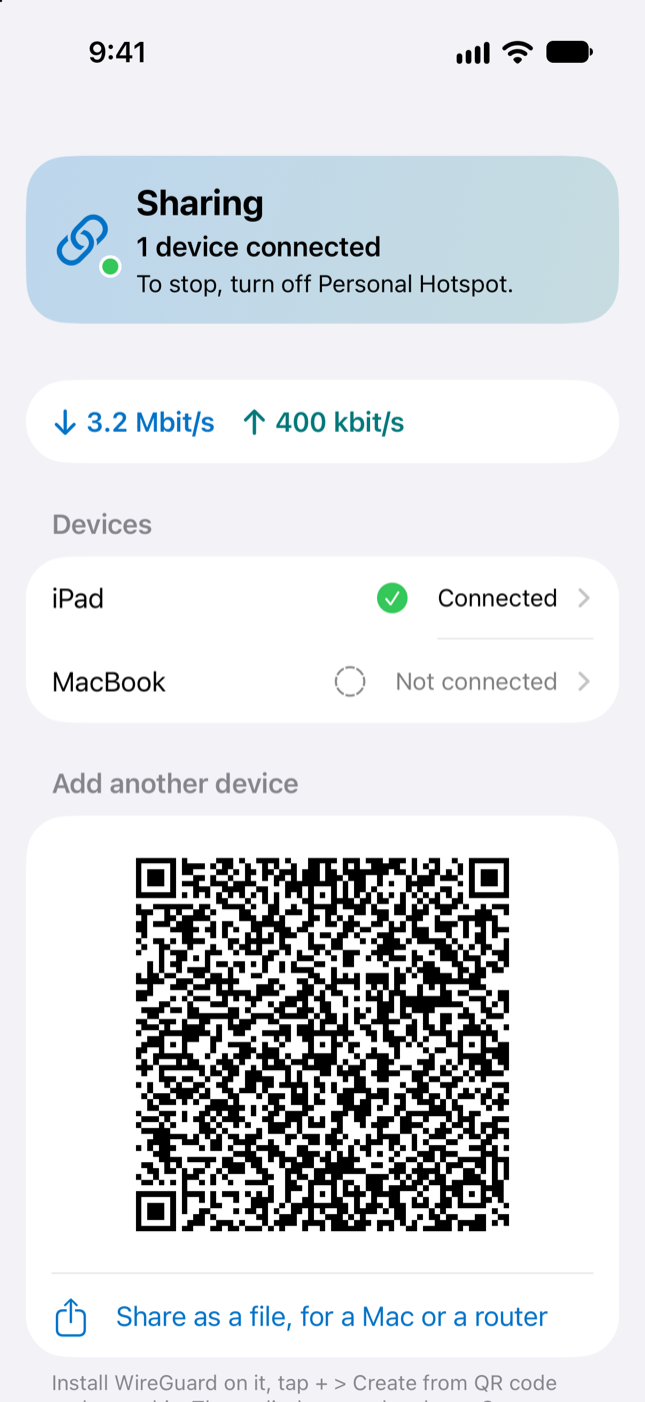
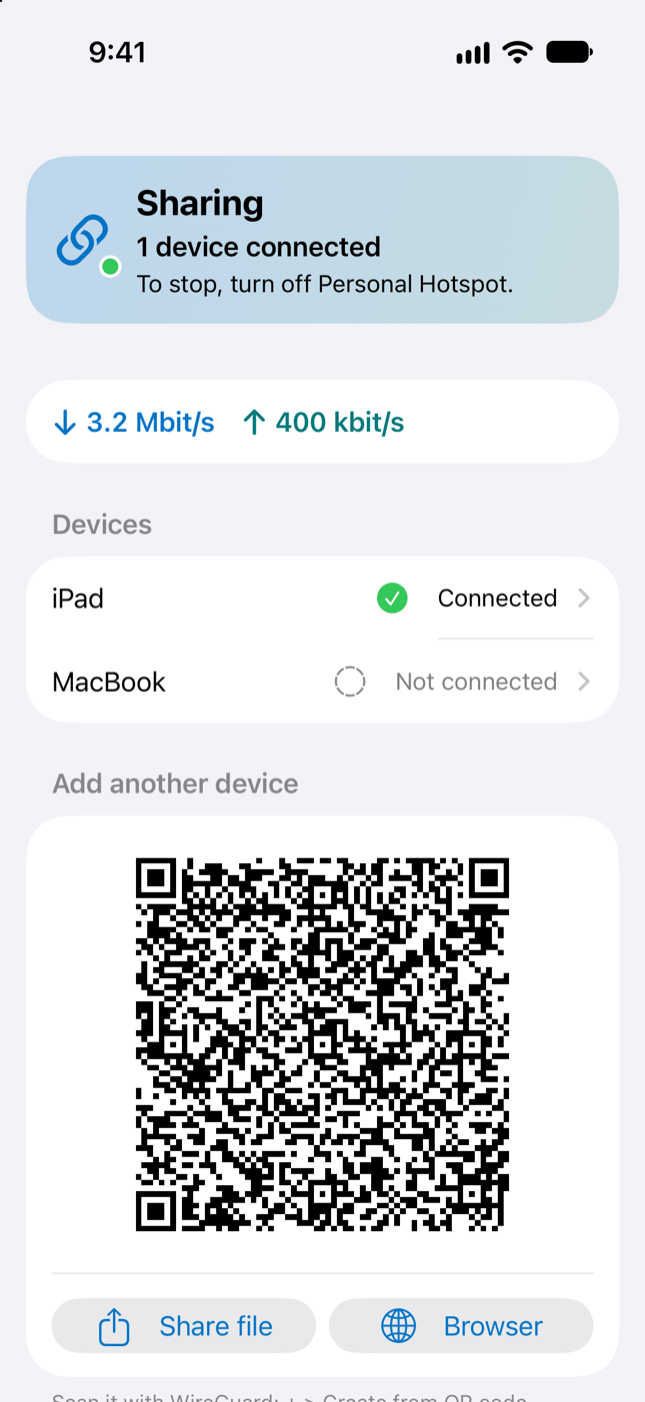
Make the add-device card and the config page compact
The card puts Share file and Browser side by side under the QR code, and Browser gives the page's address in an alert. The step under the code is one line.

The page leads with the download button and one line. The steps for each system wait behind a tap.

The new audit test checks the buttons in light and dark mode. The README screenshots are redone.

Fixes #42

Changed region(s): [[0.186, 0.6134, 0.8062, 0.8894], [0.062, 0.9201, 0.8682, 1.0]]

diff --git a/Sources/DevicesView.swift b/Sources/DevicesView.swift
@@ -1,13 +1,15 @@
 import CoreImage.CIFilterBuiltins
 import SwiftUI
 
-/// The QR code for the next device, always on the main screen, and the address of the page that
-/// hands out the same config. It's the ready device's config: the first time something connects with
+/// The QR code for the next device, always on the main screen, with buttons to share it as a file
+/// and to give the address of the page that hands out the same config. It's the ready device's config: the first time something connects with
 /// it or downloads it, that device is listed and a new code takes its place. When the next code
 /// couldn't be saved, it says so instead.
 struct AddDeviceSection: View {
     @ObservedObject var model: Model
     let first: Bool
+    /// The page's address, while the alert that gives it is up.
+    @State private var pageAddress: String?
 
     var body: some View {
         if let ready = model.wireGuardReady {
@@ -24,26 +26,38 @@ struct AddDeviceSection: View {
                         .accessibilityLabel("QR code for the next device")
                         .accessibilityIdentifier("add.qr")
                 }
-                if let file = code.file {
-                    ShareLink(item: file) {
-                        Label("Share as a file, for a Mac or a router", systemImage: "square.and.arrow.up")
+                if code.file != nil || model.configPageURL != nil {
+                    // Side by side, so the card stays short. Bordered, or the row takes one tap for both.
+                    HStack {
+                        if let file = code.file {
+                            ShareLink(item: file) {
+                                Label("Share file", systemImage: "square.and.arrow.up")
+                                    .frame(maxWidth: .infinity)
+                            }
+                            .accessibilityIdentifier("add.share")
+                        }
+                        if let url = model.configPageURL {
+                            Button {
+                                pageAddress = url
+                            } label: {
+                                Label("Browser", systemImage: "globe")
+                                    .frame(maxWidth: .infinity)
+                            }
+                            .accessibilityIdentifier("add.page")
+                        }
                     }
-                    .accessibilityIdentifier("add.share")
-                }
-                if let url = model.configPageURL {
-                    Label {
-                        Text("Or open \(Text(url).bold()) in a browser on the device")
-                    } icon: {
-                        Image(systemName: "globe")
-                    }
-                    .accessibilityElement(children: .combine)
-                    .accessibilityIdentifier("add.page")
+                    .buttonStyle(.bordered)
                 }
             } header: {
                 header
             } footer: {
-                Text("Install WireGuard on it, tap + > Create from QR code and scan this. Then edit the tunnel and turn On-Demand on for this iPhone's hotspot only. A travel router imports the file and turns its VPN on.")
+                Text("Scan it with WireGuard: + > Create from QR code.")
                     .accessibilityIdentifier("add.steps")
+            }
+            .alert("Open in a browser", isPresented: Binding { pageAddress != nil } set: { if !$0 { pageAddress = nil } }) {
+                Button("OK") {}
+            } message: {
+                Text("Join this iPhone's hotspot on the device, then open \(pageAddress ?? "") in its browser. Keep Tether on screen.")
             }
         } else if let problem = model.wireGuardReadyProblem {
             Section {

diff --git a/Sources/ConfigPage.swift b/Sources/ConfigPage.swift
@@ -125,21 +125,22 @@ enum ConfigPage {
         let content = switch state {
         case .ready:
             """
-            <p>Download a config for this device. It has a key of its own, and the device shows up in Tether's list.</p>
             <p><a class="button" href="\(configPath)">Download the config</a></p>
-            <h2>Then import it into WireGuard</h2>
+            <p>Then import it in the WireGuard app.</p>
+            <details>
+            <summary>How, on Mac, Windows, Linux or a phone</summary>
             <ul>
             <li>Mac: get WireGuard from the App Store, then Import Tunnel(s) from File.</li>
             <li>Windows: get WireGuard from wireguard.com/install, then Import tunnel(s) from file.</li>
             <li>iPhone, iPad or Android: in the WireGuard app, tap + and import the file.</li>
             <li>Linux: <code>sudo wg-quick up</code> and the file's path.</li>
+            <li>Each config is for one device. For another device, open this page on it.</li>
             </ul>
-            <p>Turn the tunnel on, and Tether shows the device as Connected. Another device? Open this page on it. Each config is for one device only.</p>
+            </details>
             """
         case .openTether:
             """
             <p>Open Tether on the iPhone and keep it on screen, then reload this page.</p>
-            <p>Tether only hands out a config while it's open, the same as its QR code.</p>
             """
         case .noConfig:
             """
@@ -157,11 +158,11 @@ enum ConfigPage {
         :root { color-scheme: light dark; --bg: #f2f2f7; --card: #fff; --text: #1c1c1e; --muted: #6c6c70; --accent: #0073c7; --on-accent: #fff; }
         @media (prefers-color-scheme: dark) { :root { --bg: #000; --card: #1c1c1e; --text: #f2f2f7; --muted: #98989f; --accent: #4db3ff; --on-accent: #0b1a26; } }
         body { margin: 0; background: var(--bg); color: var(--text); font: 17px/1.45 -apple-system, "Segoe UI", Roboto, sans-serif; }
-        main { max-width: 520px; margin: 0 auto; padding: 40px 16px; }
+        main { max-width: 520px; margin: 0 auto; padding: 24px 16px; }
         h1 { font-size: 28px; margin: 0 0 16px; }
-        h2 { font-size: 19px; margin: 24px 0 8px; }
-        p, li { color: var(--muted); }
-        ul { padding-left: 20px; }
+        p, li, summary { color: var(--muted); }
+        summary { cursor: pointer; }
+        ul { padding-left: 20px; margin: 8px 0 0; }
         code { font: 15px ui-monospace, Menlo, Consolas, monospace; }
         .button { display: block; text-align: center; text-decoration: none; font-weight: 600; padding: 14px; border-radius: 12px; background: var(--accent); color: var(--on-accent); }
         </style>

diff --git a/UITests/AddDeviceTests.swift b/UITests/AddDeviceTests.swift
@@ -2,14 +2,14 @@ import XCTest
 
 /// Adding a device: the QR code, the shared file and the steps that are always on the main screen.
 final class AddDeviceTests: TetherUITestCase {
-    private let steps = "Install WireGuard on it, tap + > Create from QR code and scan this. Then edit the tunnel and turn On-Demand on for this iPhone's hotspot only. A travel router imports the file and turns its VPN on."
+    private let steps = "Scan it with WireGuard: + > Create from QR code."
 
     func testBeforeAnyDeviceTheMainScreenShowsTheQRCodeTheFileAndTheSteps() {
         launch(.waiting)
         XCTAssertTrue(reveal(element("add.qr")).exists)
         XCTAssertEqual(element("add.qr").label, "QR code for the next device")
         let share = reveal(element("add.share"))
-        XCTAssertTrue(share.label.contains("Share as a file, for a Mac or a router"), share.label)
+        XCTAssertTrue(share.label.contains("Share file"), share.label)
         XCTAssertEqual(reveal(element("add.steps")).label, steps)
         XCTAssertTrue(sectionHeader("ADD A DEVICE").exists)
         assertNowhere(sectionHeader("ADD ANOTHER DEVICE"))
@@ -40,9 +40,24 @@ final class AddDeviceTests: TetherUITestCase {
         assertNowhere(element("add.qr"), element("add.share"), element("add.page"), element("add.steps"), element("wireguard.problem"))
     }
 
-    func testWhileSharingThePageAddressIsUnderTheCode() {
+    /// The two ways besides the code sit side by side, so the card stays short.
+    func testWhileSharingTheFileAndBrowserButtonsShareARow() {
         launch(.sharing)
-        XCTAssertEqual(reveal(element("add.page")).label, "Or open http://172.20.10.1 in a browser on the device")
+        let page = reveal(element("add.page"))
+        let share = element("add.share")
+        XCTAssertTrue(page.label.contains("Browser"), page.label)
+        XCTAssertEqual(share.frame.midY, page.frame.midY, accuracy: 2)
+        XCTAssertLessThan(share.frame.maxX, page.frame.minX)
+    }
+
+    func testTheBrowserButtonGivesThePageAddress() {
+        launch(.sharing)
+        reveal(element("add.page")).tap()
+        let alert = app.alerts.firstMatch
+        XCTAssertTrue(alert.waitForExistence(timeout: 5))
+        XCTAssertTrue(alert.staticTexts["Join this iPhone's hotspot on the device, then open http://172.20.10.1 in its browser. Keep Tether on screen."].exists)
+        alert.buttons["OK"].tap()
+        assertNowhere(app.alerts.firstMatch)
     }
 
     /// The page runs with WireGuard, on the hotspot.

diff --git a/UITests/AccessibilityTests.swift b/UITests/AccessibilityTests.swift
@@ -80,6 +80,21 @@ final class AccessibilityTests: TetherUITestCase {
 
     // MARK: devices and the QR code
 
+    /// The Share file and Browser buttons are bordered, so they get the full audit with the card in view, in both appearances.
+    func testAddDeviceButtonsPassTheAccessibilityAuditInBothAppearances() throws {
+        for appearance in [XCUIDevice.Appearance.light, .dark] {
+            XCUIDevice.shared.appearance = appearance
+            launch(.sharing)
+            XCTAssertTrue(reveal(element("add.page")).isHittable)
+            XCTAssertTrue(element("add.share").isHittable)
+            try audit()
+            let shot = XCTAttachment(screenshot: app.screenshot())
+            shot.name = "Add device card, \(appearance == .dark ? "dark" : "light")"
+            shot.lifetime = .keepAlways
+            add(shot)
+        }
+    }
+
     func testQRCodeSectionPassesTheStructuralAudit() throws {
         launch(.noDevices)
         reveal(element("add.share"))

diff --git a/Tests/ConfigPageTests.swift b/Tests/ConfigPageTests.swift
@@ -109,7 +109,12 @@ final class ConfigPageTests: XCTestCase {
         }
         let ready = try html(.ready)
         XCTAssertTrue(ready.contains("href=\"/Tether.conf\""))
-        XCTAssertTrue(ready.contains("WireGuard"))
+        XCTAssertTrue(ready.contains("Then import it in the WireGuard app."))
+        // Compact: the button comes first, and the steps for each system wait behind a tap.
+        let button = try XCTUnwrap(ready.range(of: "Download the config"))
+        let steps = try XCTUnwrap(ready.range(of: "<details>"))
+        XCTAssertLessThan(button.lowerBound, steps.lowerBound)
+        XCTAssertEqual(ready.components(separatedBy: "<p>").count - 1, 2, "the button and one line")
         let open = try html(.openTether)
         XCTAssertFalse(open.contains("Tether.conf"))
         XCTAssertTrue(open.contains("Open Tether on the iPhone"))

diff --git a/UITests/DevicesTests.swift b/UITests/DevicesTests.swift
@@ -16,11 +16,8 @@ final class DevicesTests: TetherUITestCase {
     func testDeviceRowsHaveNoAddressesOrByteLines() {
         launch(.sharing)
         reveal(element("device.iPad"))
-        // The config page's address under the QR code has 172.20.10.1, so the hotspot address is checked per row.
-        for row in [element("device.iPad"), element("device.MacBook")] {
-            XCTAssertFalse(row.label.contains("172.20.10"), row.label)
-        }
-        assertNowhere(text(containing: "10.7.0"), text(containing: "Downloaded"), app.staticTexts["Active"])
+        assertNowhere(text(containing: "172.20.10"), text(containing: "10.7.0"), text(containing: "Downloaded"),
+                      app.staticTexts["Active"])
     }
 
     func testNoDevicesMeansNoDevicesSection() {

diff --git a/Sources/HotspotSession.swift b/Sources/HotspotSession.swift
@@ -69,7 +69,7 @@ final class HotspotSession {
     /// The tunnel addresses of the WireGuard devices that are connected. Read with every sample
     /// while the app is on screen.
     var wireGuardConnected: Set<String> = [] { willSet { willChange() } }
-    /// The config page's address while it listens, shown under the QR code.
+    /// The config page's address while it listens, given by the Browser button under the QR code.
     var configPageURL: String? { willSet { willChange() } }
     /// The hotspot is on and WireGuard runs. `running` alone is only the hotspot.
     var sharing: Bool { running && wireGuardProblem == nil }

diff --git a/README.md b/README.md
@@ -99,10 +99,10 @@ You need a Mac with Xcode. A free Apple ID is enough.
 
 This works for an iPad, an iPhone, a Mac, a Windows or Linux laptop, an Android phone or a travel router. Everything goes through, calls and games too, and nothing changes on other Wi-Fi.
 
-Tether's main screen always shows a QR code for the next device, with the steps under it. There is no button to press. Tether has already made a key for that code. The first time a device connects with it, or downloads it from Tether's page, the device shows up in the Devices list by itself, as Device, Device 2 and so on, and the code changes to a new one for the next device. Tap a device to see if it is connected, remove it, or tap its name at the top to rename it.
+Tether's main screen always shows a QR code for the next device, with a short step under it. There is no button to press. Tether has already made a key for that code. The first time a device connects with it, or downloads it from Tether's page, the device shows up in the Devices list by itself, as Device, Device 2 and so on, and the code changes to a new one for the next device. Tap a device to see if it is connected, remove it, or tap its name at the top to rename it.
 
 - **iPad or iPhone:** install the free [WireGuard](https://apps.apple.com/app/id1441195209) app, then + > Create from QR code and scan the code on Tether's screen. Edit the tunnel and turn On-Demand on for Wi-Fi, only for your iPhone's hotspot name, then join the hotspot. The tunnel turns itself on at the hotspot and off everywhere else.
-- **Mac, Windows, Linux or Android:** join the hotspot, keep Tether open on the iPhone, and open `http://172.20.10.1` in a browser. Type the `http://`, since some browsers try https first and fail. Download the config there and import it into WireGuard (Import Tunnel(s) from File on a Mac or Windows, `wg-quick up` on Linux). Each download gets a key of its own, so open the page on each device. The page hands out a config only while Tether is on screen, the same as the QR code. On a Mac, "Share as a file, for a Mac or a router" under the code with AirDrop works too.
+- **Mac, Windows, Linux or Android:** join the hotspot, keep Tether open on the iPhone, and open `http://172.20.10.1` in a browser. Type the `http://`, since some browsers try https first and fail. Download the config there and import it into WireGuard (Import Tunnel(s) from File on a Mac or Windows, `wg-quick up` on Linux). Each download gets a key of its own, so open the page on each device. The page hands out a config only while Tether is on screen, the same as the QR code. On a Mac, Share file under the code with AirDrop works too. Browser under the code shows the page's address.
 - **Travel router** (a UniFi Travel Router, a GL.iNet): add a WireGuard client in the router's VPN settings from the shared file, connect the router to the iPhone by USB or the hotspot, and turn its VPN on. Some routers send their clients' traffic from the clients' own addresses instead of their tunnel address. Tether notices that by itself and lets the router's clients through, and its traffic covers every device behind it. On other networks, turn the router's VPN off.
 
 Each device has its own key. Removing a device in Tether locks it out without touching the others.
@@ -128,7 +128,7 @@ iOS has no automation for "Personal Hotspot turned on", so let one shortcut turn
 - **Keep it running.** Tether plays silent audio so iOS doesn't suspend it in the background. It mixes with other audio, so your music keeps playing, and it picks up again after a call, Siri, or an audio reset. With no device on the hotspot for 10 minutes it stops, to save battery, and iOS suspends Tether. Open it again, or run Start Tether, before you turn the hotspot back on, and after a restart.
 - **It only listens on the hotspot**, never on other Wi-Fi networks. WireGuard only lets in devices you added.
 - **Devices reach what the iPhone reaches**, private networks included. With a VPN on the iPhone, your devices use it too, so its networks are open to them and to everyone behind a travel router you added.
-- **The main screen** shows whether Tether is sharing, the QR code for the next device and the page's address, your devices with Connected or Not connected, and the current download and upload speed. To stop sharing, turn off Personal Hotspot.
+- **The main screen** shows whether Tether is sharing, the QR code for the next device with Share file and Browser buttons under it, your devices with Connected or Not connected, and the current download and upload speed. To stop sharing, turn off Personal Hotspot.
 - **The traffic leaves as your iPhone's.** If your iPhone runs a VPN, shared traffic goes through that VPN too.
 - **Your carrier can still notice.** Tether hides where the traffic comes from, not what it is. A Mac's software updates or an iPad's apps still look like a Mac or an iPad to a carrier that looks closely. Many carrier contracts don't allow tethering workarounds, and a carrier can slow down or close a line that breaks them. Check yours. Using Tether is your call and your risk.
 - **Not for the App Store.** Apple doesn't allow the silent-audio trick, so you sign and install Tether yourself.
